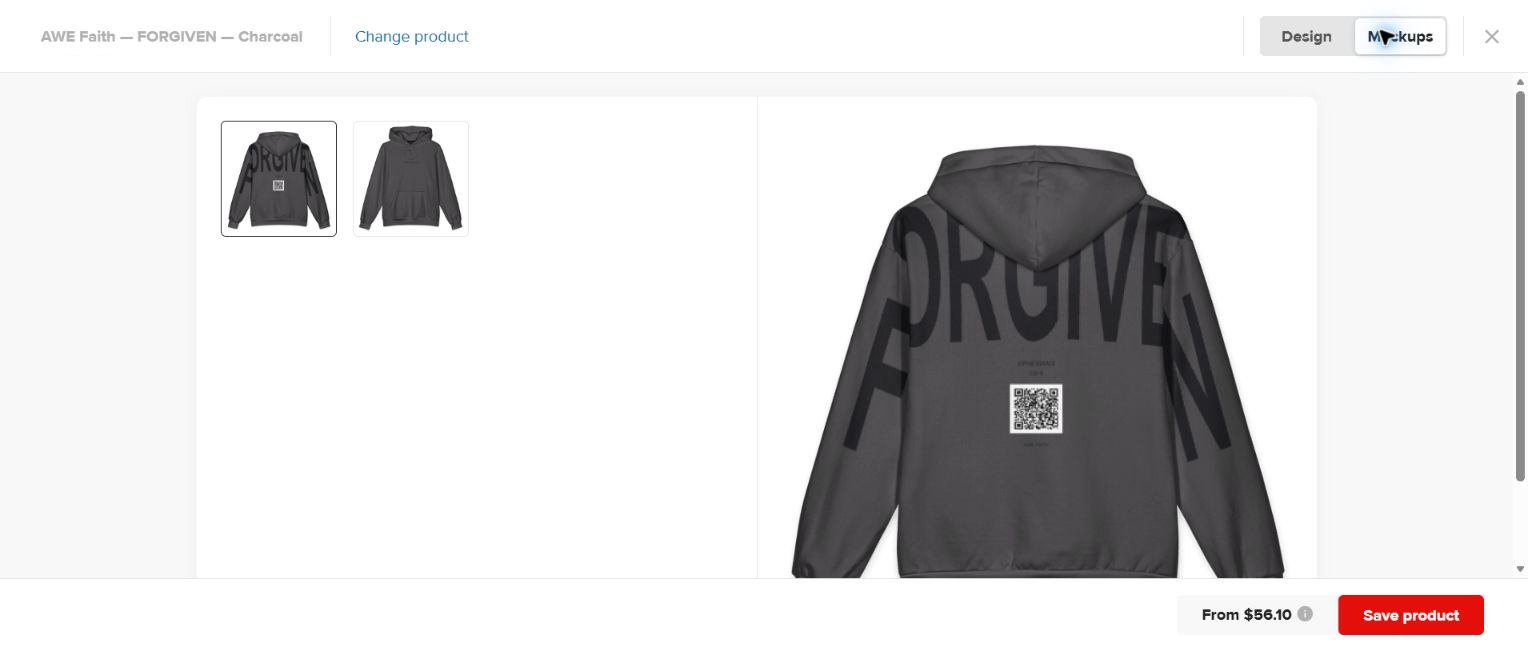
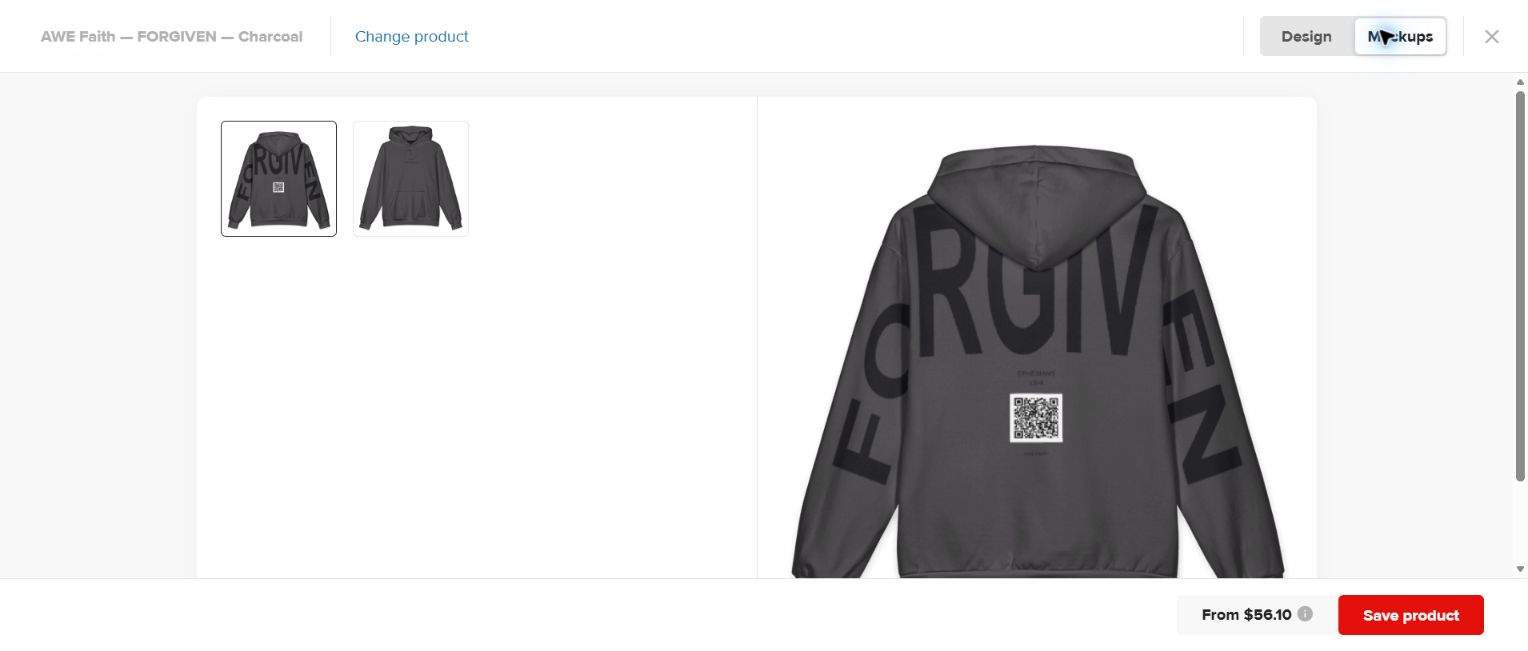
Align FO and EN along sleeves with RGIV across the back

Changed region(s): [[0.5229, 0.3072, 0.8305, 0.7373], [0.6459, 0.5837, 0.7075, 0.6759], [0.1538, 0.2151, 0.2153, 0.3072]]

diff --git a/tools/merch-studio/public/index.html b/tools/merch-studio/public/index.html
@@ -3,7 +3,7 @@
 <body><aside class="rail"><a class="monogram" href="/" aria-label="AweFaith home">aw<span>e</span></a><div class="rail-label">CREATE WITH PURPOSE</div><button id="connections" class="rail-button" title="Connections">⚙</button><span class="rail-bottom">AF / 01</span></aside>
 <main><header><div><span class="eyebrow">AWEFAITH / AWEMISSIONS</span><h1>Merch Studio<span class="dot">.</span></h1></div><div class="header-actions"><span class="local"><i></i> ON YOUR COMPUTER</span><button id="load" class="quiet">Open project</button><button id="save" class="outline">Save project ↗</button><input hidden id="projectFile" type="file" accept=".json"></div></header>
 <div class="intro"><div><span class="eyebrow">WEAR THE MISSION</span><h2>Small details.<br>Lasting impact.</h2><p>A space to turn your ideas into merchandise with meaning.</p></div><div class="flow"><span class="active">01 &nbsp; DESIGN</span><b>→</b><span>02 &nbsp; CONFIGURE</span><b>→</b><span>03 &nbsp; REVIEW</span><small>Local editing · No AI API calls · Shopify + Printful ready to connect</small></div></div>
-<section class="concept-review"><span class="eyebrow">CORRECTED DESIGN DIRECTION</span><h2>Oversized. Tonal. Across the shoulders.</h2><p>These concepts show the intended charcoal fit and large black lettering flowing across the back and sleeves. The verse reference and app QR sit below. The front retains your A.W.E. Missions logo.</p><div class="concept-grid"><figure><img src="/concepts/forgiven.png" alt="FORGIVEN concept with enormous black lettering across the charcoal hoodie back and sleeves"><figcaption>FORGIVEN</figcaption></figure><figure><img src="/concepts/action-worship-encourage.png" alt="WORSHIP centered across the back with ACTION down the left sleeve and ENCOURAGE down the right sleeve"><figcaption>ACTION · WORSHIP · ENCOURAGE</figcaption></figure></div><p><strong>Saved in Printful as unpublished product templates.</strong> Both charcoal hoodies include all 11 sizes: 2XS through 6XL. WORSHIP is centered across the back with ACTION on the left sleeve and ENCOURAGE on the right. FORGIVEN is one oversized word spread across the arms and back: F on the left arm, ORGIVE across the upper back, and N on the right arm. Both include Ephesians 2:8–9, the real AWE Faith app QR and the recreated Missions chest logo. The concept photos above remain inspiration; the Printful preview below shows the saved production placement.</p><p><a class="outline" href="https://www.printful.com/dashboard/product-templates/108905402" target="_blank" rel="noreferrer">Open FORGIVEN draft ↗</a> <a class="outline" href="https://www.printful.com/dashboard/product-templates/108905369" target="_blank" rel="noreferrer">Open WORSHIP draft ↗</a></p><div class="concept-grid"><figure><img src="/concepts/printful-worship-back.png" alt="Actual Printful preview of WORSHIP back and ACTION and ENCOURAGE sleeves"><figcaption>PRINTFUL BACK PREVIEW</figcaption></figure><figure><img src="/concepts/printful-forgiven-wrap.png" alt="Actual corrected Printful preview of one FORGIVEN word spanning the arms and upper back"><figcaption>FORGIVEN · ONE WORD ACROSS ARMS + BACK</figcaption></figure></div><p>All-Over Print Oversized Cotton Hoodie · charcoal panel fill · black stitching · base cost shown by Printful: $56.10–$66.10 before shipping. Saved templates are not published store listings. A physical sample is still needed to assess tonal contrast, seam placement and QR scanning on fabric. The planning editor below is separate from these saved templates.</p></section>
+<section class="concept-review"><span class="eyebrow">CORRECTED DESIGN DIRECTION</span><h2>Oversized. Tonal. Across the shoulders.</h2><p>These concepts show the intended charcoal fit and large black lettering flowing across the back and sleeves. The verse reference and app QR sit below. The front retains your A.W.E. Missions logo.</p><div class="concept-grid"><figure><img src="/concepts/forgiven.png" alt="FORGIVEN concept with enormous black lettering across the charcoal hoodie back and sleeves"><figcaption>FORGIVEN</figcaption></figure><figure><img src="/concepts/action-worship-encourage.png" alt="WORSHIP centered across the back with ACTION down the left sleeve and ENCOURAGE down the right sleeve"><figcaption>ACTION · WORSHIP · ENCOURAGE</figcaption></figure></div><p><strong>Saved in Printful as unpublished product templates.</strong> Both charcoal hoodies include all 11 sizes: 2XS through 6XL. WORSHIP is centered across the back with ACTION on the left sleeve and ENCOURAGE on the right. FORGIVEN is one oversized word spread across the arms and back: FO reading upward along the left arm, RGIV across the upper back, and EN reading downward along the right arm. Both include Ephesians 2:8–9, the real AWE Faith app QR and the recreated Missions chest logo. The concept photos above remain inspiration; the Printful preview below shows the saved production placement.</p><p><a class="outline" href="https://www.printful.com/dashboard/product-templates/108905402" target="_blank" rel="noreferrer">Open FORGIVEN draft ↗</a> <a class="outline" href="https://www.printful.com/dashboard/product-templates/108905369" target="_blank" rel="noreferrer">Open WORSHIP draft ↗</a></p><div class="concept-grid"><figure><img src="/concepts/printful-worship-back.png" alt="Actual Printful preview of WORSHIP back and ACTION and ENCOURAGE sleeves"><figcaption>PRINTFUL BACK PREVIEW</figcaption></figure><figure><img src="/concepts/printful-forgiven-wrap.png" alt="Actual corrected Printful preview with FO up the left arm, RGIV across the back and EN down the right arm"><figcaption>FORGIVEN · ONE WORD ACROSS ARMS + BACK</figcaption></figure></div><p>All-Over Print Oversized Cotton Hoodie · charcoal panel fill · black stitching · base cost shown by Printful: $56.10–$66.10 before shipping. Saved templates are not published store listings. A physical sample is still needed to assess tonal contrast, seam placement and QR scanning on fabric. The planning editor below is separate from these saved templates.</p></section>
 <div class="workspace"><section class="panel editor"><div class="panel-title"><h3>Separate-area planning editor</h3><span class="tag">01</span></div><label>Earlier placement studies<select id="preset"><option value="forgiven">FORGIVEN — separate-area study</option><option value="action-worship-encourage">ACTION – WORSHIP – ENCOURAGE — separate-area study</option></select></label><button id="applyPreset" class="outline">Open placement study</button><p class="hint">These earlier studies use small cream lettering in separate areas. They are not production files for the corrected concepts above. Keep them only as an alternate placement study.</p><div class="tabs" role="tablist"><button class="selected" id="frontTab" role="tab" aria-selected="true">Front</button><button id="backTab" role="tab" aria-selected="false">Back</button><button id="sleeve_leftTab" role="tab" aria-selected="false">Left sleeve</button><button id="sleeve_rightTab" role="tab" aria-selected="false">Right sleeve</button></div>
 <label class="upload" for="artFile"><span class="upload-icon">↥</span><strong>Bring your artwork</strong><small>PNG, JPG or WebP · up to 20 MB</small><small>Transparent PNG works best</small><input id="artFile" type="file" accept="image/png,image/jpeg,image/webp"></label><button id="removeImage" class="text-button">Remove image from this side</button>
 <label>Artwork width <output id="scaleLabel"></output><input id="scale" type="range" min="10" max="100" value="75"></label><div class="two"><label>Horizontal<input id="x" type="range" min="0" max="100" value="50"></label><label>Vertical<input id="y" type="range" min="0" max="100" value="35"></label></div>

diff --git a/tools/merch-studio/design-source/forgiven-wrap-v8.py b/tools/merch-studio/design-source/forgiven-wrap-v8.py
@@ -1,0 +1,11 @@
+from PIL import Image,ImageDraw,ImageFont
+from pathlib import Path
+p=Path('outputs/printful-artwork')
+def letter(text,w,h):
+ f=ImageFont.truetype('C:/Windows/Fonts/ARIALNB.TTF',1000);b=f.getbbox(text);im=Image.new('RGBA',(b[2]-b[0]+20,b[3]-b[1]+20));ImageDraw.Draw(im).text((10-b[0],10-b[1]),text,font=f,fill='#111015');return im.crop(im.getbbox()).resize((w,h),Image.Resampling.LANCZOS)
+im=Image.new('RGBA',(4800,6000));im.alpha_composite(letter('RGIV',3600,2400),(600,850));d=ImageDraw.Draw(im)
+for txt,y,size in [('EPHESIANS',3500,100),('2:8–9',3650,85),('AWE FAITH',4830,70)]:
+ f=ImageFont.truetype('C:/Windows/Fonts/arial.ttf',size);d.text((2400,y),txt,font=f,fill='#111015',anchor='mt')
+im.alpha_composite(Image.open('outputs/designs/awefaith-app-qr.png').convert('RGBA'),(1995,3850));im.save(p/'forgiven-wrap-back-v8.png',dpi=(300,300))
+for side,txt,angle in [('left','FO',90),('right','EN',-90)]:
+ im=Image.new('RGBA',(2400,6000));im.alpha_composite(letter(txt,4600,1800).rotate(angle,expand=True),(300,800));im.save(p/f'forgiven-wrap-{side}-v8.png',dpi=(300,300))

diff --git a/tools/merch-studio/PRINTFUL-DRAFTS.md b/tools/merch-studio/PRINTFUL-DRAFTS.md
@@ -6,11 +6,11 @@ Saved as unpublished Printful product templates. FORGIVEN corrected October 16, 
 - ACTION / WORSHIP / ENCOURAGE: https://www.printful.com/dashboard/product-templates/108905369
 - Product: All-Over Print Oversized Cotton Hoodie, all-over cotton, black stitching, charcoal #454345 panel fill. Catalog blank is labeled White; charcoal comes from printed panel artwork.
 - All 11 sizes selected: 2XS, XS, S, M, L, XL, 2XL, 3XL, 4XL, 5XL, 6XL.
-- FORGIVEN back: 26 inch width, centered horizontally/top aligned; ORGIVE across upper back, with verse reference and real QR below. F/N sleeve masters: 8 inch width, same lettering height, shifted onto rear-facing upper sleeve surfaces. Actual assembled preview inspected and saved. Back quality approximately 185 DPI, sleeves 300 DPI.
+- FORGIVEN back: 26 inch width, centered horizontally/top aligned; RGIV across upper back, with verse reference and real QR below. FO/EN sleeve masters: 8 inch width, rotated along the sleeve axis, shifted onto rear-facing upper sleeve surfaces. Actual assembled preview inspected and saved. Back quality approximately 185 DPI, sleeves 300 DPI.
 - WORSHIP retains 22 inch back and 4 inch sleeve file widths. Shared chest placement master remains 8 inch width/top aligned.
-- FORGIVEN is a single reading across three garment panels: F on left arm, ORGIVE on upper back and N on right arm. It is not repeated on any panel. WORSHIP on back, ACTION on left sleeve and ENCOURAGE on right. Shared Ephesians 2:8–9 reference and real app QR.
+- FORGIVEN is a single reading across three garment panels: FO reading upward on left arm, RGIV on upper back and EN reading downward on right arm. It is not repeated on any panel. WORSHIP on back, ACTION on left sleeve and ENCOURAGE on right. Shared Ephesians 2:8–9 reference and real app QR.
 - QR destination: https://awemissions.github.io/Awe-faith/
 - Price displayed: $56.10–$66.10 before shipping; Growth price $47.68–$55.94. No order placed or payment made.
-- Production files: forgiven-wrap-back-v7.png, forgiven-wrap-left-v7.png, forgiven-wrap-right-v7.png, worship-back-v2.png, action-left-sleeve-v2.png, encourage-right-sleeve-v2.png, awe-missions-chest-placement-v6.png. Older file revisions in the account are superseded.
+- Production files: forgiven-wrap-back-v8.png, forgiven-wrap-left-v8.png, forgiven-wrap-right-v8.png, worship-back-v2.png, action-left-sleeve-v2.png, encourage-right-sleeve-v2.png, awe-missions-chest-placement-v6.png. Older file revisions in the account are superseded.
 - No store listing published. These are Printful templates, not Shopify drafts. Shopify connection remains separate.
 - Physical sample still needed for fabric contrast, QR scanning and fit/seam assessment. The exact continuous shoulder-to-sleeve reference composition is not guaranteed across independently sewn panels.
